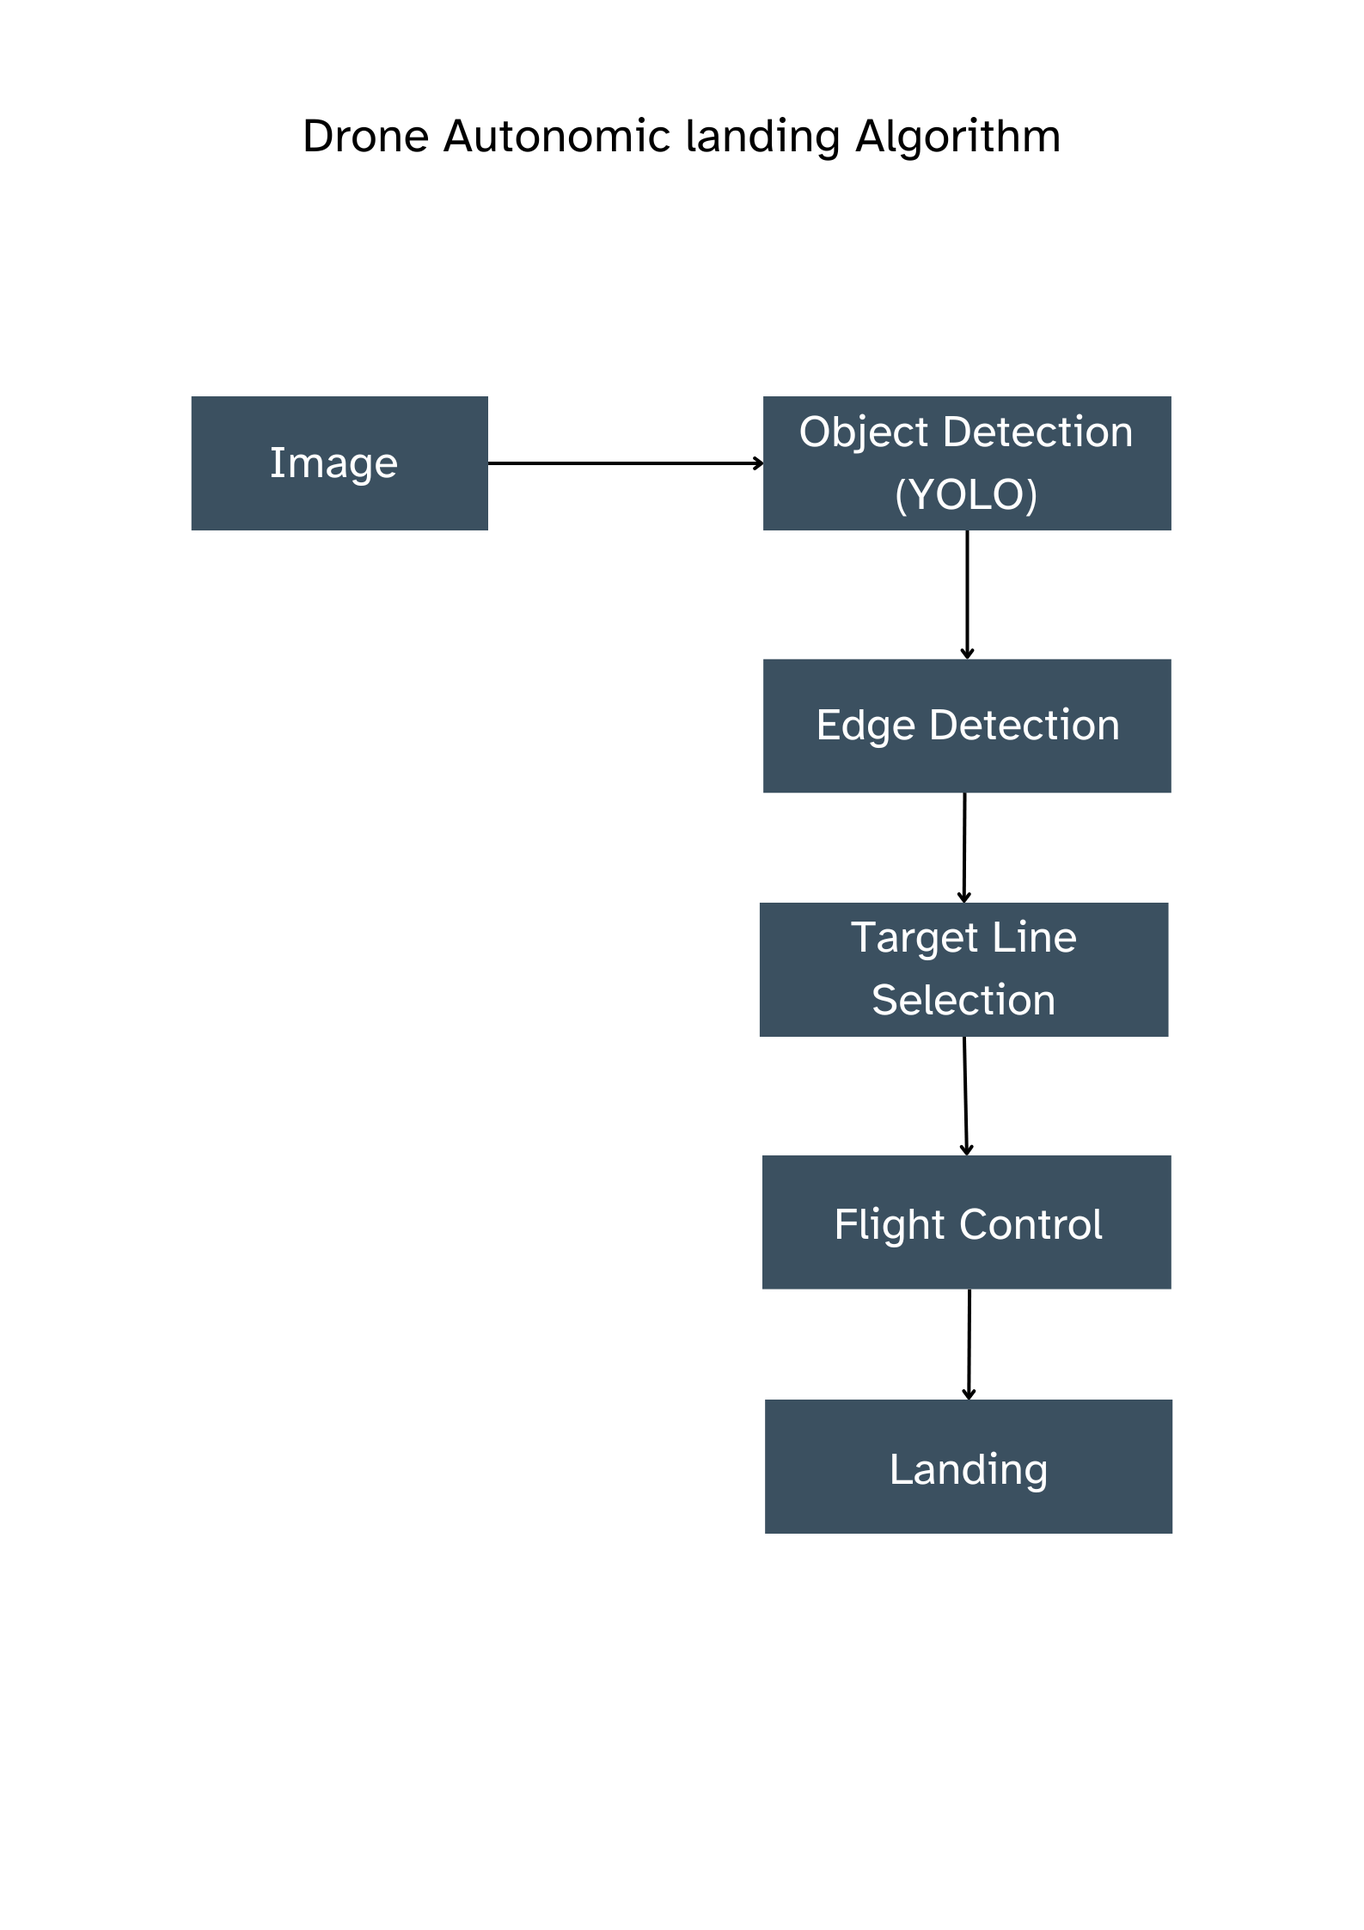
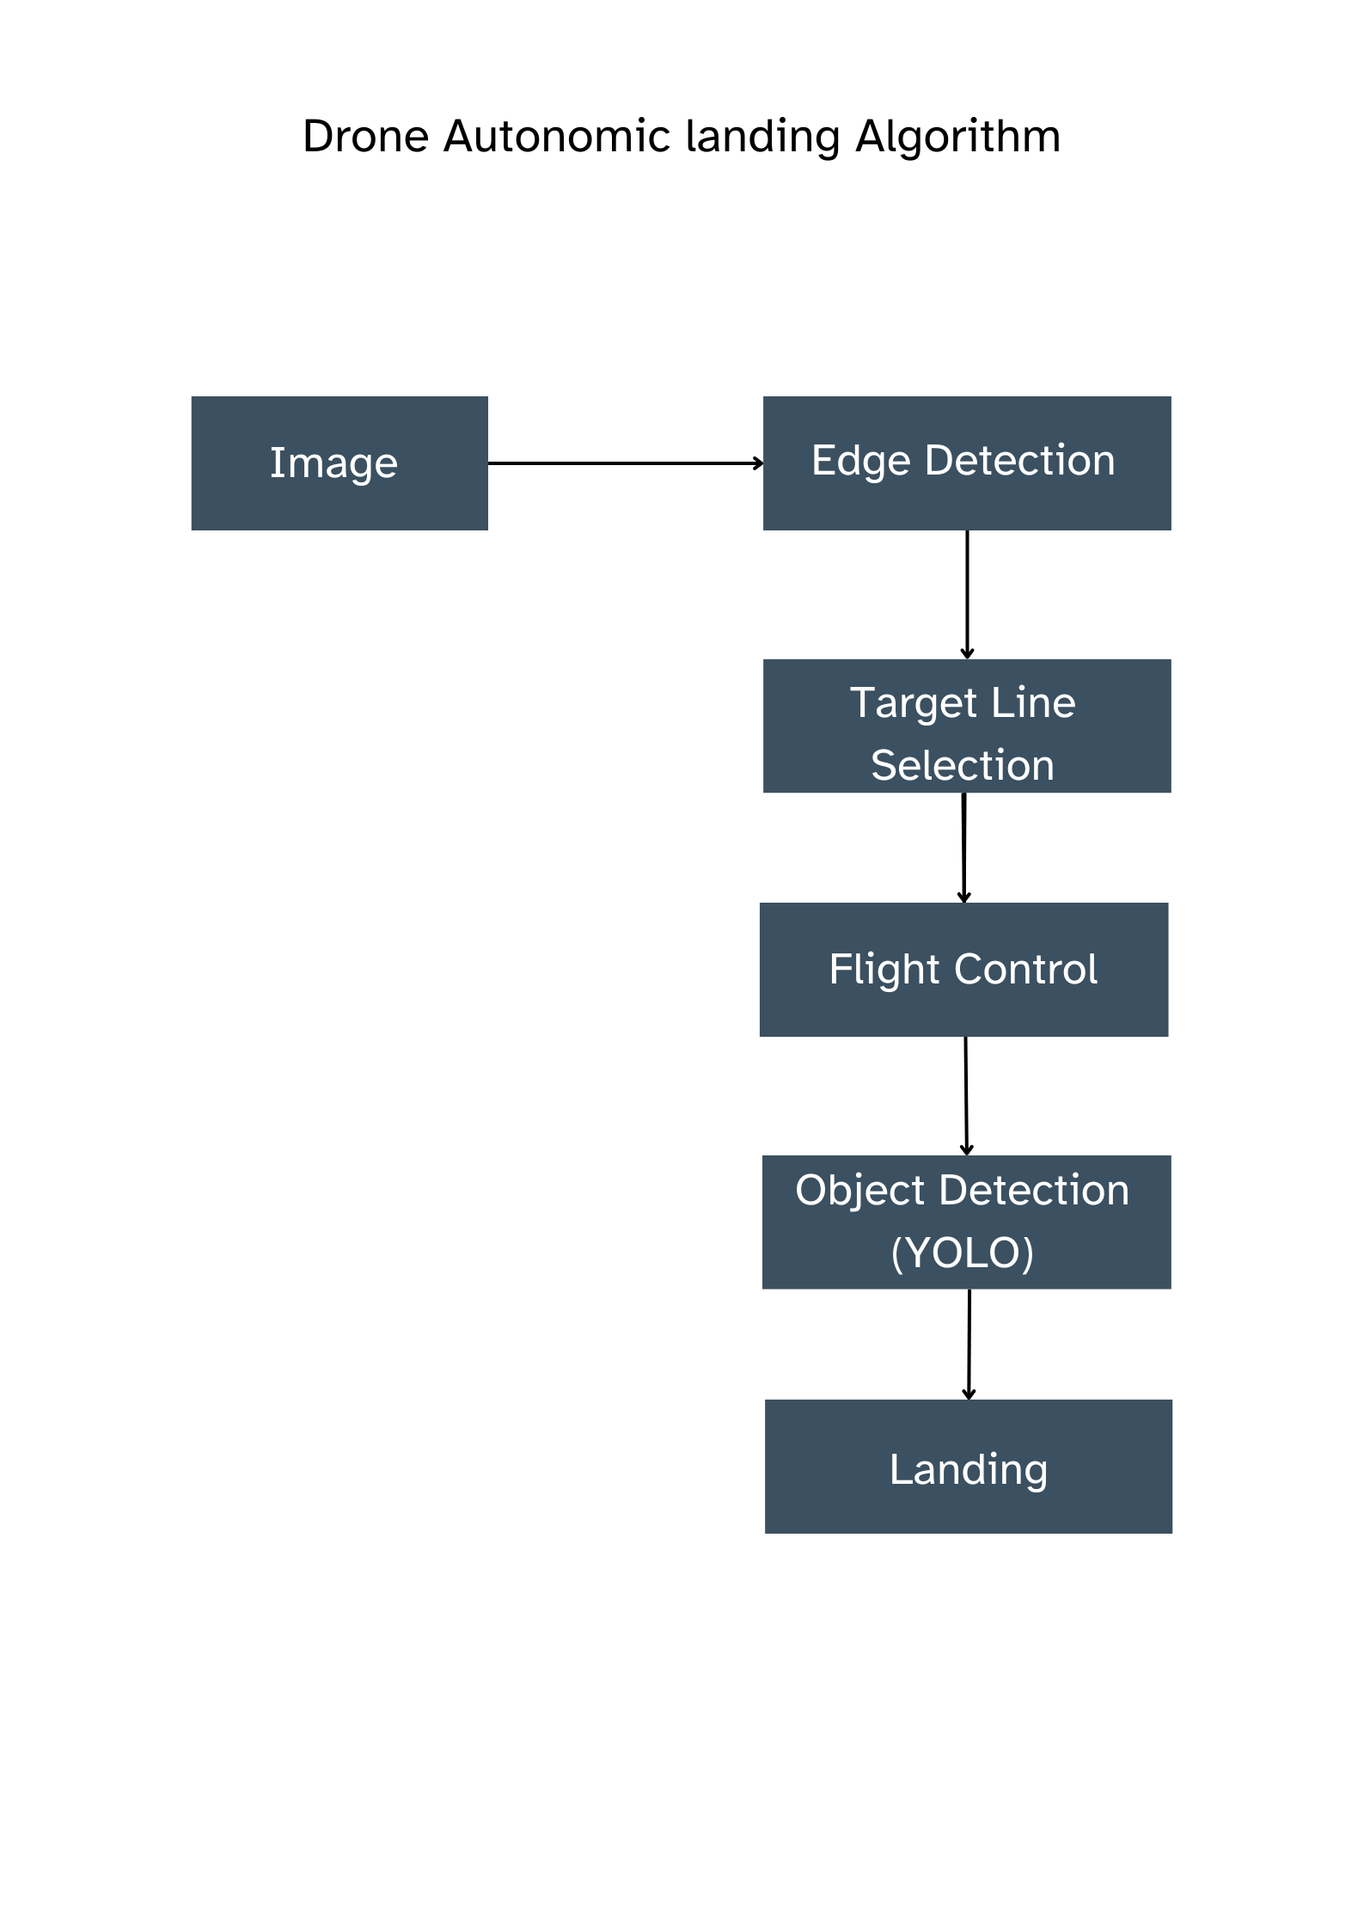
Add Algorithm design and Future work sections

diff --git a/Article/Article.tex b/Article/Article.tex
@@ -4,25 +4,19 @@
 \usepackage{amssymb,amsmath,latexsym}
 \usepackage{soul,color}
 \usepackage{xcolor}
-\usepackage{graphicx,amssymb,amsmath}
+\usepackage{graphicx,amssymb}
 \usepackage{algorithm}
 \usepackage[noend]{algpseudocode}
 \usepackage{pgfplots}
 \usepackage{array}
-\usepackage[utf8]{inputenc}
 \newcolumntype{P}[1]{>{\centering\arraybackslash}p{#1}}
 \usepackage{tikz}
 \usepackage{caption}
 \setcounter{secnumdepth}{4}
-\usepackage{pgfplots}
 \usepackage{hyperref}
 \usepackage{float}
 \usepackage{subcaption}
 \pgfplotsset{compat=newest}
-\usepackage[utf8]{inputenc}
-\usepackage{hyperref}
-\usepackage{array}
-\usepackage{graphicx}
 %\usepackage{authblk}
 \usepackage{multirow}
 
@@ -89,11 +83,7 @@
 
 \begin{frontmatter}
 
-
 \title{Vision-Based Automatic Landing of Drones}
-
-
-
 
 \author[a,b,c,d]{Or Haim Anidjar\corref{cor1}}
 \ead{orhaim@ariel.ac.il}
@@ -104,8 +94,8 @@
 \author[a]{Shirel Turgeman}
 \ead{shirel.zz10@gmail.com}
 
-\author[a]{Adi Peisach}
-\ead{adi.peisach@gmail.com}
+% \author[a]{Adi Peisach}
+% \ead{adi.peisach@gmail.com}
 
 \author[a, b, c]{Boaz Ben-Moshe}
 \ead{benmo@ariel.ac.il}
@@ -122,14 +112,12 @@
 \cortext[cor1]{Corresponding author: Or Haim Anidjar, School of Computer Science, Ariel University, Golan Heights 1, 4077625, Ariel, Israel.}
 
 
-
 \begin{abstract}
 This article introduces a platform designed to enable precise landings on the edge of rooftops, facilitating operations at boundary locations. The platform integrates voice recognition capabilities for activation, eliminating reliance on manual button controls. The primary objective is to develop a methodology and control algorithm that allows drones to guard settlements effectively. This research employs a combination of straight-line detection and object detection, avoiding the use of global positioning systems. The system is engineered to operate with drones equipped with existing cameras, obviating the need for additional sensors, and is implemented using the DJI SDK on Android devices. This paper presents a visual landing technology through a proposed algorithm, which is divided into two key tasks: scene evaluation and landing site security. Initially, the drone utilizes object detection to identify and avoid obstacles within the landing area, enabling autonomous descent planning. Once obstacles are cleared, the drone transitions to descent mode. For precise landings at the edge of a rooftop, an edge detection algorithm is employed alongside a target line selection process, allowing the user to designate a specific landing line beforehand, ensuring accuracy during the final approach.
-
 \end{abstract}
 
 \begin{keyword}
-Visual-Based Landing; Autonomous Landing; Accurate Landing; Spoken Language Recognition.
+Visual-Based Landing \sep Autonomous Landing \sep Accurate Landing\sep Spoken Language Recognition.
 \end{keyword}
 
 \end{frontmatter}
@@ -139,102 +127,79 @@ Unmanned aerial vehicles (UAVs), commonly known as drones, are aircraft that ope
 This research addresses these challenges by developing a visual-based landing system that enhances accuracy and safety. Our approach enables drones to autonomously identify and land on planar surfaces, such as rooftops, relying solely on visual data from the onboard camera. By eliminating the need for additional sensors or external data inputs, this system offers a robust solution for autonomous landings in complex environments.
 
 \subsection{Authors Contribution}
-We propose a visual processing framework that enables the drone to autonomously land by utilizing object (obstacle) detection and edge detection. Our approach is tested on a DJI drone equipped with a standard camera, using the DJI SDK for implementation on Android devices. Additionally, we have implemented a "guard" mode in the app—a button that, when activated, is designed to detect movement (such as people, cars, etc.) and send alerts. The system's robustness is further enhanced by incorporating basic voice commands through a speech recognition module, meeting the requirements outlined by MAFAT.
+We propose a visual processing framework that enables the drone to autonomously land by utilizing object (obstacle) detection and edge detection. Our approach is tested on a DJI drone equipped with a standard camera, using the DJI SDK for implementation on Android devices. Additionally, we have implemented a "guard" mode in the app — a button that, when activated, is designed to detect movement (such as people, cars, etc.) and send alerts. The system's robustness is further enhanced by incorporating basic voice commands through a speech recognition module, meeting the requirements outlined by MAFAT.\\
 
-\begin{figure}[htp]
+\newpage \section{Algorithm Design} \label{sec:algorithm}
+Our proposed algorithm for autonomous drone landing consists of three key components: Target Line Selection, Flight Control, and Object Detection. Each part contributes to the overall reliability and precision of the landing process, ensuring safe navigation and obstacle avoidance.
+
+\begin{figure}[H]
     \centering
-    \includegraphics[width=11.0cm]{Schematic_for_automatic_landing.png}
+    \includegraphics[width=0.7\textwidth]{Schematic_for_automatic_landing.png}  % Reduced the size here
     \caption{Schematic for automatic landing.}
     \label{fig:Schematic_for_automatic_landing.}
 \end{figure}
 
+\subsection{Target Line Selection}
+In the first stage of the landing process, edge detection is activated to identify all available and compatible lines within the camera's field of view. These lines represent potential landing paths. The user interacts with the system by selecting the desired line for the drone to land behind via a touch-based interface. Once the target line is chosen, the algorithm continuously tracks the line. This is achieved by calculating the distance between the selected line and all detected lines, and the one with the minimum distance is updated as the current target line. This real-time tracking ensures that the drone can maintain accurate navigation towards the desired landing area.
 
-% \subsection{Paper Structure}
-% This paper is structured as follows: Section \ref{sec:related} discusses related work in autonomous drone landing and visual navigation. Section \ref{sec:datasets} details the datasets used for testing and validation. Section \ref{sec:framework} describes the proposed framework, including the algorithms and implementation details. Section \ref{sec:exp_eval} presents the experimental evaluation and results. Finally, Section \ref{sec:discussion} offers a discussion on the findings, and Section \ref{sec:conclusions} concludes the paper with suggestions for future work.
+\subsection{Flight Control}
+After target line selection, the system activates the flight control module. The drone begins moving towards the selected line by issuing pitch commands, which direct forward movement. This continues until the chosen line is nearly out of the drone’s visible range. Through experimental measurements, we identified a blind spot between the drone's final visible position of the line and its actual location in reality. To compensate for this, the algorithm calculates the necessary adjustment and issues a final pitch command, ensuring that the drone reaches the correct position relative to the target line.
 
-
-% \begin{table}[th]
-%   \caption{List of abbreviations}
-
-%   \centering
-%   \begin{tabular}{ |c|c|c|}
-%   \hline
-%     \multicolumn{1}{|c|}{\textbf{Abbreviation}} &
-%     \multicolumn{1}{|c|}{\textbf{Meaning}}\\\hline
-%     PID & \quad Proportional Integral Derivative \\\hline
-
-%   \end{tabular}
-%   \label{tab:list_of_abbreviations}
-% \end{table}
-
-
-
-
-\section{Related Work} \label{sec:related}
-\subsection{Obstacle Avoidance}
-Obstacle avoidance is a critical aspect of autonomous drone operations, especially in dynamic environments where both static and moving obstacles are present. One approach is integrating depth images with an occupancy voxel map to detect and track dynamic obstacles \cite{xu2023real}. This approach effectively balances computational efficiency with the need for accurate detection and tracking, making it suitable for real-time UAV operations. Another approach is.... \cite{redmon2017yolo9000}
-
-% \cite{lee2022camera} is a set.
-
-
-% Spoken language recognition (SLR) has been a
-
-
-\section{Datasets} \label{sec:datasets}
-
-
-
-In the field of speech recognition, the ability to accurately transcribe
-
-
-
-
-\section{Framework} \label{sec:framework}
-
-
-
-
-
-\section{Experimental Evaluation and Results} \label{sec:exp_eval}
-
-
-
-In accordance with the methodologies outlined in the framework, several modifications were independently evaluated. Below is a tabulated comparison illustrating the differences among these variations, as in Table~\ref{tab:results_comparison}:
-
-\begin{table}[ht]
-\centering
-\caption{Comparative Analysis of Model Improvements on Validation Dataset.}
-\label{tab:results_comparison}
-\resizebox{0.4\textwidth}{!}{%
-\begin{tabular}{|c|c|}
-\hline
-\textbf{Model} & \textbf{Accuracy} \\
-\hline
-Baseline & 0.54 \\
-
-\hline
-\end{tabular}%
-}
-\end{table}
-
-
-Figure~\ref{fig:conf_matrix_test} depicting the confusion matrices for the final model on :
-
-\begin{figure}[htp]
+\begin{figure}[H]
     \centering
-    \includegraphics[width=11.0cm]{con_matrix_test.jpeg}
-    \caption{Confusion Matrix on Validation Dataset for the Final Model, showing minimal error.}
-    \label{fig:conf_matrix_test}
+    \includegraphics[width=0.7\textwidth]{Blind Spot Area.png}  % Reduced the size here
+    % \caption{Schematic for automatic landing.}
+    \label{fig:Blind Spot Area.}
 \end{figure}
 
+\subsection{Object Detection}
+Upon reaching the target area, object detection is initiated to scan for potential hazards in the intended landing zone. The detection algorithm examines the area for obstacles such as people, vehicles, or other objects that may hinder safe landing. The landing zone's dimensions are calculated based on prior measurements from different drone positions, ensuring the detection area is appropriately scaled for accurate hazard identification. If no hazards are detected, the system proceeds with the landing sequence, ensuring a safe and precise touchdown.
 
+\newpage \section{Related Work} \label{sec:related}
 
-The results in Eq.(\ref{eq:inequality}) clearly demonstrate that Boaz has no idea in equations.
+\subsection{Obstacle Avoidance}
+Obstacle avoidance is a critical aspect of autonomous drone operations, especially in dynamic environments where both static and moving obstacles are present. One approach is integrating depth images with an occupancy voxel map to detect and track dynamic obstacles \cite{xu2023real}. This approach effectively balances computational efficiency with the need for accurate detection and tracking, making it suitable for real-time UAV operations. Another approach involves deep learning techniques like the YOLO (You Only Look Once) framework, which excels at real-time obstacle detection in dynamic environments \cite{redmon2017yolo9000}. YOLO9000 enables rapid detection of multiple objects, making it ideal for fast decision-making in complex surroundings. Its efficiency and accuracy have made it a popular choice for enhancing UAV obstacle avoidance systems.
 
-\begin{equation} \label{eq:inequality}
-    3 \neq 3
-\end{equation}
+\subsection{Motion Detection and Object Detection: Yolo (You Only Look Once)}
+Recent advancements in motion and object detection have been significantly influenced by the YOLO (You Only Look Once) framework. As highlighted by \cite{dahirou2021motion}, YOLO enables real-time object detection by predicting bounding boxes and class probabilities from full images in a single evaluation, enhancing both speed and accuracy. This capability makes YOLO particularly effective for applications requiring immediate responsiveness, such as surveillance and autonomous navigation.
 
+\subsection{Speech Recognition}
+Speech recognition has been explored as a key component in enhancing drone operation through voice commands, particularly in environments where manual control is impractical. Various systems have been developed for continuous speech recognition on Android devices, such as the one proposed by Srivastav et al. \cite{SpeechRecognition}, which enables real-time voice command processing for mobile platforms. This technology is critical for integrating human-drone interaction, especially in hands-free scenarios, allowing operators to issue commands without physical intervention. Such advancements enable drones to act upon voice inputs for tasks like navigation, object detection, or activation of specific modes. Similar systems have been implemented to facilitate the control of unmanned aerial vehicles (UAVs) in real-time, optimizing human-machine interaction and expanding the use cases for drones in dynamic, complex environments.
+
+\subsection{A Robust and Accurate Landing Methodology for Drones on Moving Targets}
+Recent work has explored the use of ArUco markers for precision landing in autonomous drones, offering an efficient visual processing solution for target detection and tracking. As demonstrated in \cite{drones6040098}, ArUco markers provide high accuracy in identifying landing zones, especially when combined with robust visual algorithms. This approach addresses common challenges such as variable lighting conditions and drone stability during descent. Implementing these markers has shown success in enhancing landing precision, contributing to safer and more reliable autonomous operations.
+
+\subsection{An improved Canny edge detection algorithm}
+Edge detection algorithms play a critical role in enhancing the visual processing capabilities of drones by accurately identifying boundaries and objects within an image. The Canny Edge Detection Algorithm, as discussed in \cite{rong2014improved}, has proven to be highly effective due to its ability to detect edges with minimal noise while maintaining high accuracy. This method ensures that drones can detect and track obstacles, aiding in precise navigation and autonomous landing. Its application in real-time drone systems highlights its importance in improving the robustness of visual navigation and obstacle avoidance.
+
+\section{Drone Control Mechanisms} \label{sec:framework}
+The drone’s movement is governed by four fundamental control parameters: yaw, pitch, roll, and throttle. These parameters allow the drone to maneuver in 3D space with precision, facilitating both object tracking and navigation during various flight operations.\\
+\begin{description}
+\item $\bullet$ Yaw - controls the rotation around the vertical axis, allowing the drone to turn left or right to face objects.
+\item $\bullet$ Pitch - adjusts the forward and backward tilt, moving the drone in those directions.
+\item $\bullet$ Roll - manages side-to-side tilt, shifting the drone left or right.
+\item $\bullet$ Throttle - regulates altitude by increasing or decreasing the drone’s lift.
+\end{description}
+
+\section{Framework} \label{sec:framework}
+\subsection{Speech Recognition}
+The speech recognition system, powered by Google Speech Recognition, continuously listens for the user’s voice until it detects the wake word "hey rexi." Once activated, the system checks subsequent speech for commands from the predefined list, enabling real-time control of the drone without touching the screen. This approach allows the system to remain responsive while minimizing unnecessary processing, facilitating a hands-free operation experience.
+
+Each recognized command triggers a specific action in the drone. The key commands and their associated actions are:
+\begin{description}
+\item $\bullet$ Takeoff - Initiates the drone's takeoff sequence, lifting it to a designated altitude for hover.
+\item $\bullet$ Land - Initiates the landing sequence, lowering the throttle for a controlled descent until the drone reaches the ground.
+\item $\bullet$ Stop - Halts any current movement, keeping the drone stationary in hover mode.
+\item $\bullet$ Move up - Increases the throttle to elevate the drone vertically.
+\item $\bullet$ Move down - Decreases the throttle, causing the drone to descend.
+\item $\bullet$ Start recording - Begins video recording using the drone's camera.
+\item $\bullet$ Stop recording - Stops the video recording and saves the footage.
+\item $\bullet$ Edge detection - Activates the edge detection algorithm, allowing the system to identify and process edges for navigation or object tracking.
+
+\end{description}
+\subsection{Object Tracking?}
+\subsection{Landing Algorithm}
+\subsection{Movement Detection}
 
 \section{Discussion} \label{sec:discussion}
 
@@ -248,12 +213,14 @@ Advancements in language recognition technologies have been noteworthy, yet they
 
 \end{enumerate}
 
+\newpage \section{Future Work} \label{sec:future}
+An important area for future improvement is the algorithm's ability to handle wind conditions, particularly in outdoor environments and at higher altitudes. While the current implementation performs reliably in controlled settings, real-world scenarios—such as fluctuating wind speeds and changing directions—pose significant challenges to the drone's stability and landing accuracy. Specifically, turbulence at great heights can disrupt the drone's trajectory, leading to deviations from the intended flight path and reducing the precision of both target line tracking and landing position.
 
-\section{Conclusions and Future Work} \label{sec:conclusions}
+To address these challenges, we plan to enhance the algorithm by integrating real-time wind compensation techniques. This improvement will involve adapting the flight control module to account for external forces, using sensor and visual data to counteract wind disturbances, and dynamically adjusting the drone's movements. Enhancing wind handling will enable the algorithm to perform more reliably across a wider range of scenarios, ensuring consistent operation in varying environmental conditions.
 
+Additional future work includes transitioning the speech recognition system from an online to an offline model, which will improve reliability by ensuring consistent functionality without internet access. Furthermore, we plan to explore the integration of plane recognition algorithms to enhance landing precision. This capability will enable the drone to autonomously identify suitable landing surfaces, thus increasing safety and operational efficiency.
 
-In this study, we have
-
+\section{Conclusion}
 
 
 % \bibliographystyle{model5-names}\biboptions{authoryear}
